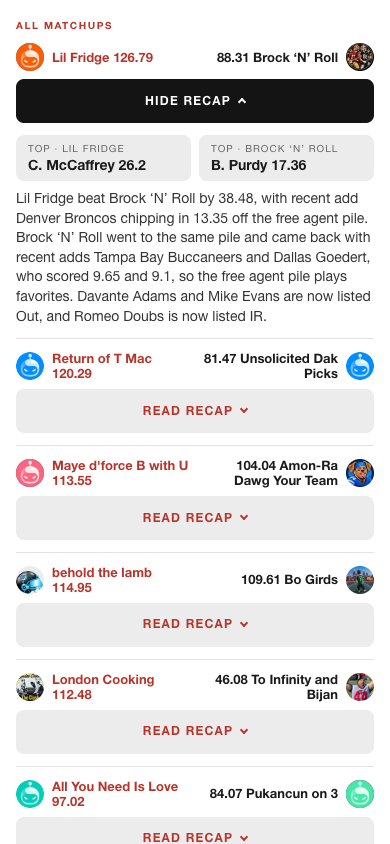
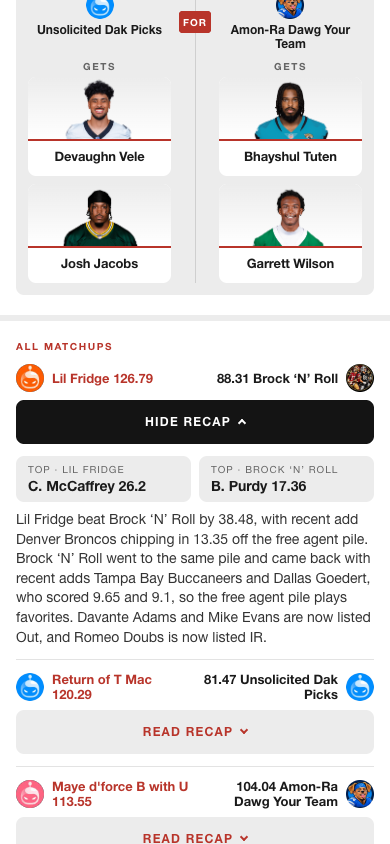
Fix the review notes on the week page parts
Rename the spacing tokens to full words and add the divider color.
Keep the recap panel in the DOM so find-in-page finds the recap text.
Test the cut line and the four-side trade. Rename winner and loser.

diff --git a/src/components/week/all-matchups.tsx b/src/components/week/all-matchups.tsx
@@ -4,7 +4,7 @@
  */
 "use client";
 
-import { AnimatePresence, motion } from "framer-motion";
+import { motion } from "framer-motion";
 import { useId, useState } from "react";
 import { num, shortName } from "@/lib/format";
 import { DURATION, EASE_OUT, INSTANT, useMotionOff } from "@/lib/motion";
@@ -52,17 +52,19 @@ function Row({ matchup, avatars, first }: { matchup: Matchup; avatars: AvatarMap
   const off = useMotionOff();
   const panelId = useId();
   // The JSON puts the winner first. A tie has no winner, so neither side is bold.
-  const [w, l] = matchup.sides;
-  const bold = cn(w.winner && "font-extrabold text-red");
-  const panel = open && (
+  const [winner, loser] = matchup.sides;
+  const bold = cn(winner.winner && "font-extrabold text-red");
+  // The panel stays in the DOM when closed, so find-in-page still finds the recap text.
+  // Height 0 hides it from sight. aria-hidden and inert hide it from assistive tech and the tab order.
+  const panel = (
     // The panel animates height, an exception to the transform and opacity rule. The panel is short and opens
     // on a tap only, and a FLIP of the rows below would move every other matchup.
     <motion.div
-      key="panel"
       id={panelId}
-      initial={off ? false : { height: 0, opacity: 0 }}
-      animate={{ height: "auto", opacity: 1 }}
-      exit={{ height: 0, opacity: 0 }}
+      aria-hidden={!open}
+      inert={!open}
+      initial={false}
+      animate={open ? { height: "auto", opacity: 1 } : { height: 0, opacity: 0 }}
       transition={off ? INSTANT : { duration: DURATION.collapse, ease: EASE_OUT }}
       className="overflow-hidden"
     >
@@ -80,22 +82,22 @@ function Row({ matchup, avatars, first }: { matchup: Matchup; avatars: AvatarMap
         )}
       >
         <div className="flex min-w-0 items-center gap-sp-2 text-row leading-tight font-semibold hyphens-auto">
-          <Avatar src={avatarSrc(avatars, w.team.roster_id)} />
+          <Avatar src={avatarSrc(avatars, winner.team.roster_id)} />
           <span>
-            <span className={bold}>{w.team.name}</span> <span className={bold}>{num(w.score)}</span>
+            <span className={bold}>{winner.team.name}</span> <span className={bold}>{num(winner.score)}</span>
           </span>
         </div>
         <div className="flex min-w-0 items-center justify-end gap-sp-2 text-right text-row leading-tight font-semibold hyphens-auto">
           {/* One string, so React writes one text node, as the old page did. */}
-          <span>{`${num(l.score)} ${l.team.name}`}</span>
-          <Avatar src={avatarSrc(avatars, l.team.roster_id)} />
+          <span>{`${num(loser.score)} ${loser.team.name}`}</span>
+          <Avatar src={avatarSrc(avatars, loser.team.roster_id)} />
         </div>
       </div>
       {/* 44px is the smallest comfortable touch target. The color change on open is instant, so only the press animates. */}
       <button
         type="button"
         aria-expanded={open}
-        aria-controls={open ? panelId : undefined}
+        aria-controls={panelId}
         onClick={() => setOpen(!open)}
         className={cn(
           "press mb-sp-3 flex min-h-touch w-full cursor-pointer items-center justify-center gap-sp-2 rounded-card border-0 px-sp-3",
@@ -108,13 +110,12 @@ function Row({ matchup, avatars, first }: { matchup: Matchup; avatars: AvatarMap
         <span
           aria-hidden
           className={cn(
-            "inline-block size-chev border-r-2 border-b-2 border-current transition-[translate,rotate] duration-200 ease-out",
+            "inline-block size-chevron border-r-2 border-b-2 border-current transition-[translate,rotate] duration-200 ease-out",
             open ? "translate-y-px -rotate-135" : "-translate-y-sp-0 rotate-45",
           )}
         />
       </button>
-      {/* With motion off, the panel switches at once, with no exit to wait for. */}
-      {off ? panel : <AnimatePresence initial={false}>{panel}</AnimatePresence>}
+      {panel}
     </div>
   );
 }

diff --git a/src/components/week/all-matchups.test.tsx b/src/components/week/all-matchups.test.tsx
@@ -29,13 +29,23 @@ describe("AllMatchups", () => {
     const buttons = screen.getAllByRole("button", { name: "Read recap" });
     expect(buttons.length).toBe(6);
     expect(buttons[0].getAttribute("aria-expanded")).toBe("false");
-    expect(screen.queryByText(/with recent add Denver Broncos/)).toBeNull();
+    expect(buttons[0].getAttribute("aria-controls")).toBeTruthy();
+  });
+
+  it("keeps the recap text in the document, so find-in-page finds it", () => {
+    renderMatchups();
+    expect(screen.getByText(/with recent add Denver Broncos/)).toBeTruthy();
   });
 
   it("opens the recap with the top scorers, then closes it", () => {
     renderMatchups();
     const button = screen.getAllByRole("button", { name: "Read recap" })[0];
+    const panel = document.getElementById(button.getAttribute("aria-controls") ?? "");
+    expect(screen.getByText(/with recent add Denver Broncos/)).toBeTruthy();
+    expect(button.getAttribute("aria-expanded")).toBe("false");
+    expect(panel?.getAttribute("aria-hidden")).toBe("true");
     fireEvent.click(button);
+    expect(panel?.getAttribute("aria-hidden")).toBe("false");
     expect(button.textContent).toBe("Hide recap");
     expect(button.getAttribute("aria-expanded")).toBe("true");
     expect(screen.getByText("Top · Lil Fridge")).toBeTruthy();
@@ -45,6 +55,7 @@ describe("AllMatchups", () => {
     fireEvent.click(button);
     expect(button.textContent).toBe("Read recap");
     expect(button.getAttribute("aria-expanded")).toBe("false");
+    expect(panel?.getAttribute("aria-hidden")).toBe("true");
   });
 
   it("points the matchup of the week to the top story", () => {
@@ -55,8 +66,8 @@ describe("AllMatchups", () => {
   });
 
   it("shows a dash for a side with no top scorer", () => {
-    const [w, l] = week6.matchups[0].sides;
-    const matchup = { ...week6.matchups[0], sides: [w, { ...l, top: null }] as typeof week6.matchups[0]["sides"] };
+    const [winner, loser] = week6.matchups[0].sides;
+    const matchup = { ...week6.matchups[0], sides: [winner, { ...loser, top: null }] as typeof week6.matchups[0]["sides"] };
     render(<AllMatchups matchups={[matchup]} avatars={week6.avatars} />);
     fireEvent.click(screen.getByRole("button", { name: "Read recap" }));
     expect(screen.getByText("—")).toBeTruthy();

diff --git a/src/app/globals.css b/src/app/globals.css
@@ -27,6 +27,8 @@
     --color-mute: #666;
     --color-rule: #e3e3e3;
     --color-bar-off: #cfcfcf;
+    /* The thin rule between two columns. */
+    --color-divider: #cfcfcf;
     --color-on-dark: #fff;
     --color-on-dark-2: #ccc;
     --color-on-dark-muted: #999;
@@ -59,15 +61,15 @@
     /* The headshot on an award tile: two steps of sp-5, as the stylesheet sets it. */
     --spacing-award: calc(var(--spacing-sp-5) * 2);
     /* The chevron on a recap button: a small square turned 45 degrees, so it reads as an arrow. */
-    --spacing-chev: 6px;
+    --spacing-chevron: 6px;
     /* The median chart: the bar height, and the score column on the right. The plot box ends where the
        score column starts, so the median line and the bars share one percent scale. */
-    --spacing-bar: 14px;
+    --spacing-median-bar: 14px;
     --spacing-val-col: 52px;
     /* The standings columns: rank, W-L, and points. The points column fits 000.00 at the row size. */
-    --spacing-st-rank: 24px;
-    --spacing-st-wl: 44px;
-    --spacing-st-pts: 56px;
+    --spacing-standings-rank: 24px;
+    --spacing-standings-record: 44px;
+    --spacing-standings-points: 56px;
 
     /* The page is one centered column, so the same layout serves a phone and a desktop. */
     --container-page: 480px;

diff --git a/src/components/week/standings.tsx b/src/components/week/standings.tsx
@@ -11,7 +11,7 @@ import { avatarSrc, Blurb, Chapter, Label, Who } from "./parts";
 const PLAYOFF_SPOTS = 6;
 
 const GRID =
-  "grid grid-cols-[var(--spacing-st-rank)_1fr_var(--spacing-st-wl)_var(--spacing-st-pts)] items-center gap-sp-2 border-b border-rule-dark text-row leading-tight tabular-nums";
+  "grid grid-cols-[var(--spacing-standings-rank)_1fr_var(--spacing-standings-record)_var(--spacing-standings-points)] items-center gap-sp-2 border-b border-rule-dark text-row leading-tight tabular-nums";
 
 /* The W-L and points columns align right, so the numbers line up on the last digit. */
 function Line({ cells, className }: { cells: [ReactNode, ReactNode, ReactNode, ReactNode]; className?: string }) {
@@ -46,7 +46,7 @@ export function Standings({ table, avatars }: { table: TableRow[]; avatars: Avat
               row.standing.points_for.toFixed(2),
             ]}
           />
-          {i + 1 === PLAYOFF_SPOTS && <div className={cn(GRID, "border-b-2 border-dashed border-red p-0")} />}
+          {i + 1 === PLAYOFF_SPOTS && <div role="separator" className={cn(GRID, "border-b-2 border-dashed border-red p-0")} />}
         </Fragment>
       ))}
       <Blurb dark className="mt-sp-3 text-meta">

diff --git a/src/components/week/trades.test.tsx b/src/components/week/trades.test.tsx
@@ -40,6 +40,17 @@ describe("Trades", () => {
     expect(screen.queryByText("For")).toBeNull();
   });
 
+  it("gives a four-side trade no For tag and shows all four teams", () => {
+    const [a, b] = week6.trades[0].sides;
+    const c = { ...a, team: { ...a.team, roster_id: 901, name: "Third Team" }, players: [], picks: ["2027 2nd round"] };
+    const d = { ...b, team: { ...b.team, roster_id: 902, name: "Fourth Team" }, players: [], picks: ["2028 1st round"] };
+    render(<Trades trades={[{ sides: [a, b, c, d] }]} avatars={week6.avatars} />);
+    expect(screen.queryByText("For")).toBeNull();
+    for (const name of [a.team.name, b.team.name, "Third Team", "Fourth Team"]) {
+      expect(screen.getAllByText(name).length).toBeGreaterThan(0);
+    }
+  });
+
   it("leaves the chapter out when the week has no trades", () => {
     const copy = { ...week6, trades: [] };
     const { container } = render(<Trades trades={copy.trades} avatars={copy.avatars} />);

diff --git a/src/components/week/next-week.tsx b/src/components/week/next-week.tsx
@@ -2,6 +2,7 @@
  * Next week: one grey card per game with both teams and their records, the Must Watch tag, and the blurb.
  * The week number comes from the page, so the label reads the week after the one on the page.
  */
+import { cn } from "@/lib/utils";
 import type { AvatarMap, NextGame, Team } from "@/lib/week-types";
 import { avatarSrc, Blurb, Chapter, Label, Tag, Who } from "./parts";
 
@@ -18,7 +19,7 @@ function Side({ team, avatars }: { team: Team; avatars: AvatarMap }) {
 
 function Game({ game, avatars, first }: { game: NextGame; avatars: AvatarMap; first: boolean }) {
   return (
-    <div className={first ? "rounded-card bg-gry p-sp-3" : "mt-sp-2 rounded-card bg-gry p-sp-3"}>
+    <div className={cn("rounded-card bg-gry p-sp-3", !first && "mt-sp-2")}>
       <div className="text-body leading-body font-extrabold">
         <Side team={game.a} avatars={avatars} />
         {/* The "vs" lines up under the names, past the avatar column. */}

diff --git a/src/lib/utils.ts b/src/lib/utils.ts
@@ -11,7 +11,7 @@ export const cn = createCn({
     // The spacing scale in globals.css adds names that cn does not know.
     // Without them cn keeps both mb-sp-3 and mb-sp-1 instead of the last one.
     theme: {
-      spacing: ["sp-0", "sp-1", "sp-2", "sp-3", "sp-4", "sp-5", "sp-6", "gutter", "award", "logo", "divider", "avatar", "touch", "headshot", "chev", "bar", "val-col", "st-rank", "st-wl", "st-pts"],
+      spacing: ["sp-0", "sp-1", "sp-2", "sp-3", "sp-4", "sp-5", "sp-6", "gutter", "award", "logo", "divider", "avatar", "touch", "headshot", "chevron", "median-bar", "val-col", "standings-rank", "standings-record", "standings-points"],
     },
     classGroups: {
       "font-size": [{ text: ["label", "meta", "row", "body", "lead", "stat", "score", "headline", "hero"] }],

diff --git a/src/components/week/median-game.tsx b/src/components/week/median-game.tsx
@@ -44,11 +44,11 @@ export function MedianGame({ median, blurb }: { median: Median | null; blurb?: s
             <div>
               <div className="mb-sp-0 text-meta leading-tight text-ink-2">{bar.team.name}</div>
               <div
-                className={cn("h-bar rounded-sm", bar.above ? "bg-red" : "bg-bar-off")}
+                className={cn("h-median-bar rounded-sm", bar.above ? "bg-red" : "bg-bar-off")}
                 style={{ width: `${bar.pct}%` }}
               />
             </div>
-            <b className="text-right leading-(--spacing-bar)">{num(bar.score)}</b>
+            <b className="text-right leading-(--spacing-median-bar)">{num(bar.score)}</b>
           </div>
         ))}
       </div>

diff --git a/src/components/week/trades.tsx b/src/components/week/trades.tsx
@@ -50,7 +50,7 @@ function Side({ side, avatars }: { side: TradeSide; avatars: AvatarMap }) {
 /* The divider runs the full card height between the two columns. The tag sits on it, level with the team names. */
 function For() {
   return (
-    <div className="relative row-span-3 flex flex-col items-center before:absolute before:inset-y-0 before:left-1/2 before:w-px before:bg-bar-off">
+    <div className="relative row-span-3 flex flex-col items-center before:absolute before:inset-y-0 before:left-1/2 before:w-px before:bg-divider">
       <span className="relative mt-sp-5 rounded-sm bg-red p-sp-1 text-label font-extrabold tracking-caps text-on-dark uppercase">
         For
       </span>

diff --git a/src/components/week/standings.test.tsx b/src/components/week/standings.test.tsx
@@ -38,6 +38,15 @@ describe("Standings", () => {
     expect(screen.getByText("698.30")).toBeTruthy();
   });
 
+  it("puts the cut line after the sixth row", () => {
+    renderStandings();
+    const cut = screen.getByRole("separator");
+    const before = week6.table.filter(
+      (row) => screen.getByText(row.team.name).compareDocumentPosition(cut) & Node.DOCUMENT_POSITION_FOLLOWING,
+    );
+    expect(before.map((row) => row.team.name)).toEqual(week6.table.slice(0, 6).map((row) => row.team.name));
+  });
+
   it("shows the note about the median game", () => {
     renderStandings();
     expect(screen.getByText(/Records include the weekly median game/)).toBeTruthy();
